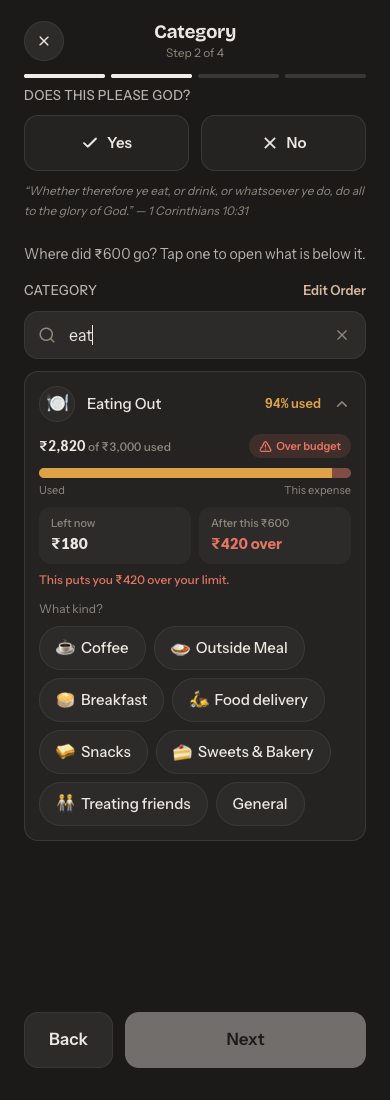
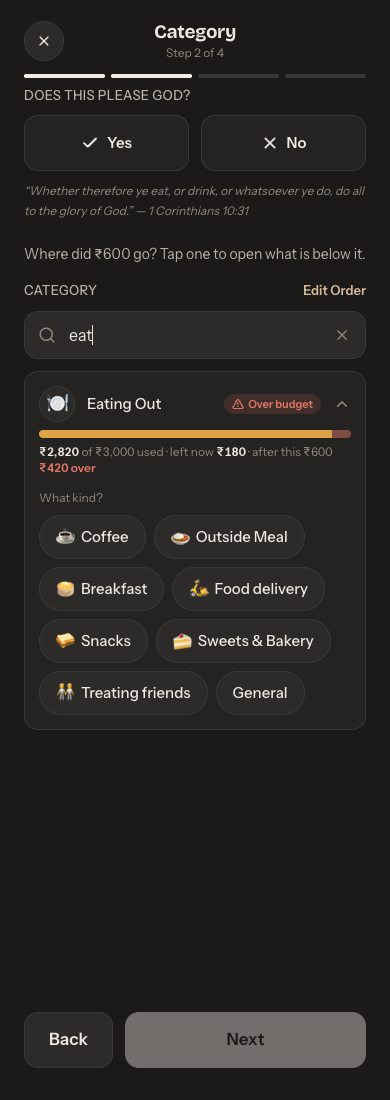
Category step: compact budget panel (status badge in the header, one line of numbers), about a third shorter

Changed region(s): [[0.0923, 0.34, 0.9231, 0.7418]]

diff --git a/src/components/budget/BudgetImpact.tsx b/src/components/budget/BudgetImpact.tsx
@@ -1,4 +1,3 @@
-import clsx from 'clsx'
 import { AlertTriangle, CheckCircle2, CircleAlert } from 'lucide-react'
 import { BUDGET_STATUS_COLOR, type BudgetLine } from '../../lib/budgets'
 import { formatCurrency } from '../../lib/currency'
@@ -15,71 +14,44 @@ export function afterAdding(line: BudgetLine, amount: number) {
 const LABEL = { ok: 'Within budget', warning: 'Close to limit', over: 'Over budget' } as const
 const ICON = { ok: CheckCircle2, warning: CircleAlert, over: AlertTriangle } as const
 
-function Stat({ label, value, color }: { label: string; value: string; color?: string }) {
+/** Status badge for a budget after adding `amount` to it. */
+export function BudgetBadge({ line, amount }: { line: BudgetLine; amount: number }) {
+  const { status } = afterAdding(line, amount)
+  const color = BUDGET_STATUS_COLOR[status]
+  const Icon = ICON[status]
   return (
-    <div className="rounded-xl bg-surface px-3 py-2">
-      <p className="text-tertiary text-[11px] font-medium">{label}</p>
-      <p className="text-[15px] font-bold tabular-nums mt-0.5" style={{ color: color ?? 'var(--color-white)' }}>
-        {value}
-      </p>
-    </div>
+    <span
+      className="inline-flex items-center gap-1 rounded-full px-2 py-0.5 text-[11px] font-semibold shrink-0"
+      style={{ color, background: `color-mix(in srgb, ${color} 14%, transparent)` }}
+    >
+      <Icon size={12} strokeWidth={2.4} /> {LABEL[status]}
+    </span>
   )
 }
 
 /**
- * The budget panel shown while adding an expense: how much of the limit is used, how much is left now,
- * and what is left once this expense is added (or how far over it goes).
+ * The budget panel shown while adding an expense: a bar and one short line with what is used,
+ * what is left now and what is left once this expense is added. The status badge sits in the card header.
  */
 export function BudgetImpact({ line, amount }: { line: BudgetLine; amount: number }) {
   const { usedPct, addPct, after, status } = afterAdding(line, amount)
   const nowColor = BUDGET_STATUS_COLOR[line.status]
   const color = BUDGET_STATUS_COLOR[status]
-  const Icon = ICON[status]
+  const leftNow = line.remaining >= 0 ? formatCurrency(line.remaining) : `${formatCurrency(-line.remaining)} over`
 
   return (
-    <div className="mt-3">
-      <div className="flex items-center justify-between gap-2">
-        <p className="text-white text-[14px] font-semibold tabular-nums">
-          {formatCurrency(line.spent)}
-          <span className="text-tertiary text-[12px] font-medium"> of {formatCurrency(line.limit)} used</span>
-        </p>
-        <span
-          className="inline-flex items-center gap-1 rounded-full px-2.5 py-1 text-[11px] font-semibold shrink-0"
-          style={{ color, background: `color-mix(in srgb, ${color} 14%, transparent)` }}
-        >
-          <Icon size={13} strokeWidth={2.4} /> {LABEL[status]}
-        </span>
-      </div>
-
-      <div className="relative mt-2.5 h-2.5 rounded-full bg-white/5 overflow-hidden flex">
+    <div className="mt-2">
+      <div className="h-2 rounded-full bg-white/5 overflow-hidden flex">
         <div className="h-full" style={{ width: `${usedPct}%`, background: nowColor }} />
         <div className="h-full" style={{ width: `${addPct}%`, background: color, opacity: 0.45 }} />
       </div>
-      <p className="text-tertiary text-[11px] mt-1 flex justify-between">
-        <span>Used</span>
-        <span>This expense</span>
+      <p className="text-[12px] mt-1.5 tabular-nums text-tertiary leading-snug">
+        <span className="text-white font-semibold">{formatCurrency(line.spent)}</span> of {formatCurrency(line.limit)} used · left now{' '}
+        <span className="text-white font-semibold">{leftNow}</span> · after this {formatCurrency(amount)}{' '}
+        <span className="font-semibold" style={{ color: status === 'ok' ? 'var(--color-white)' : color }}>
+          {after >= 0 ? `${formatCurrency(after)} left` : `${formatCurrency(-after)} over`}
+        </span>
       </p>
-
-      <div className="grid grid-cols-2 gap-2 mt-2">
-        <Stat
-          label="Left now"
-          value={line.remaining >= 0 ? formatCurrency(line.remaining) : `${formatCurrency(-line.remaining)} over`}
-          color={line.remaining >= 0 ? undefined : nowColor}
-        />
-        <Stat
-          label={`After this ${formatCurrency(amount)}`}
-          value={after >= 0 ? `${formatCurrency(after)} left` : `${formatCurrency(-after)} over`}
-          color={status === 'ok' ? undefined : color}
-        />
-      </div>
-
-      {status !== 'ok' && (
-        <p className={clsx('text-[12px] font-medium mt-2 leading-snug')} style={{ color }}>
-          {status === 'over'
-            ? `This puts you ${formatCurrency(-after)} over your limit.`
-            : `You are about to hit your limit: only ${formatCurrency(after)} will be left.`}
-        </p>
-      )}
     </div>
   )
 }

diff --git a/src/components/add/CategoryPicker.tsx b/src/components/add/CategoryPicker.tsx
@@ -7,7 +7,7 @@ import { Chip } from '../ui/Chip'
 import { NewCategorySheet } from '../settings/NewCategorySheet'
 import { categoryRepo } from '../../db/repository'
 import { BUDGET_STATUS_COLOR, type BudgetLine } from '../../lib/budgets'
-import { BudgetImpact } from '../budget/BudgetImpact'
+import { BudgetBadge, BudgetImpact } from '../budget/BudgetImpact'
 import { buildTree, categoryPath } from '../../lib/categoryTree'
 import { formatCurrency } from '../../lib/currency'
 
@@ -220,9 +220,7 @@ export function CategoryPicker({
                     )}
                   </span>
                   {line && (
-                    <span className="text-[13px] font-semibold tabular-nums shrink-0" style={{ color: BUDGET_STATUS_COLOR[line.status] }}>
-                      {line.pct}% used
-                    </span>
+                    <BudgetBadge line={line} amount={amount} />
                   )}
                   {hasChildren && (
                     <ChevronDown size={18} className={clsx('text-tertiary shrink-0 transition-transform', isOpen && 'rotate-180')} />
